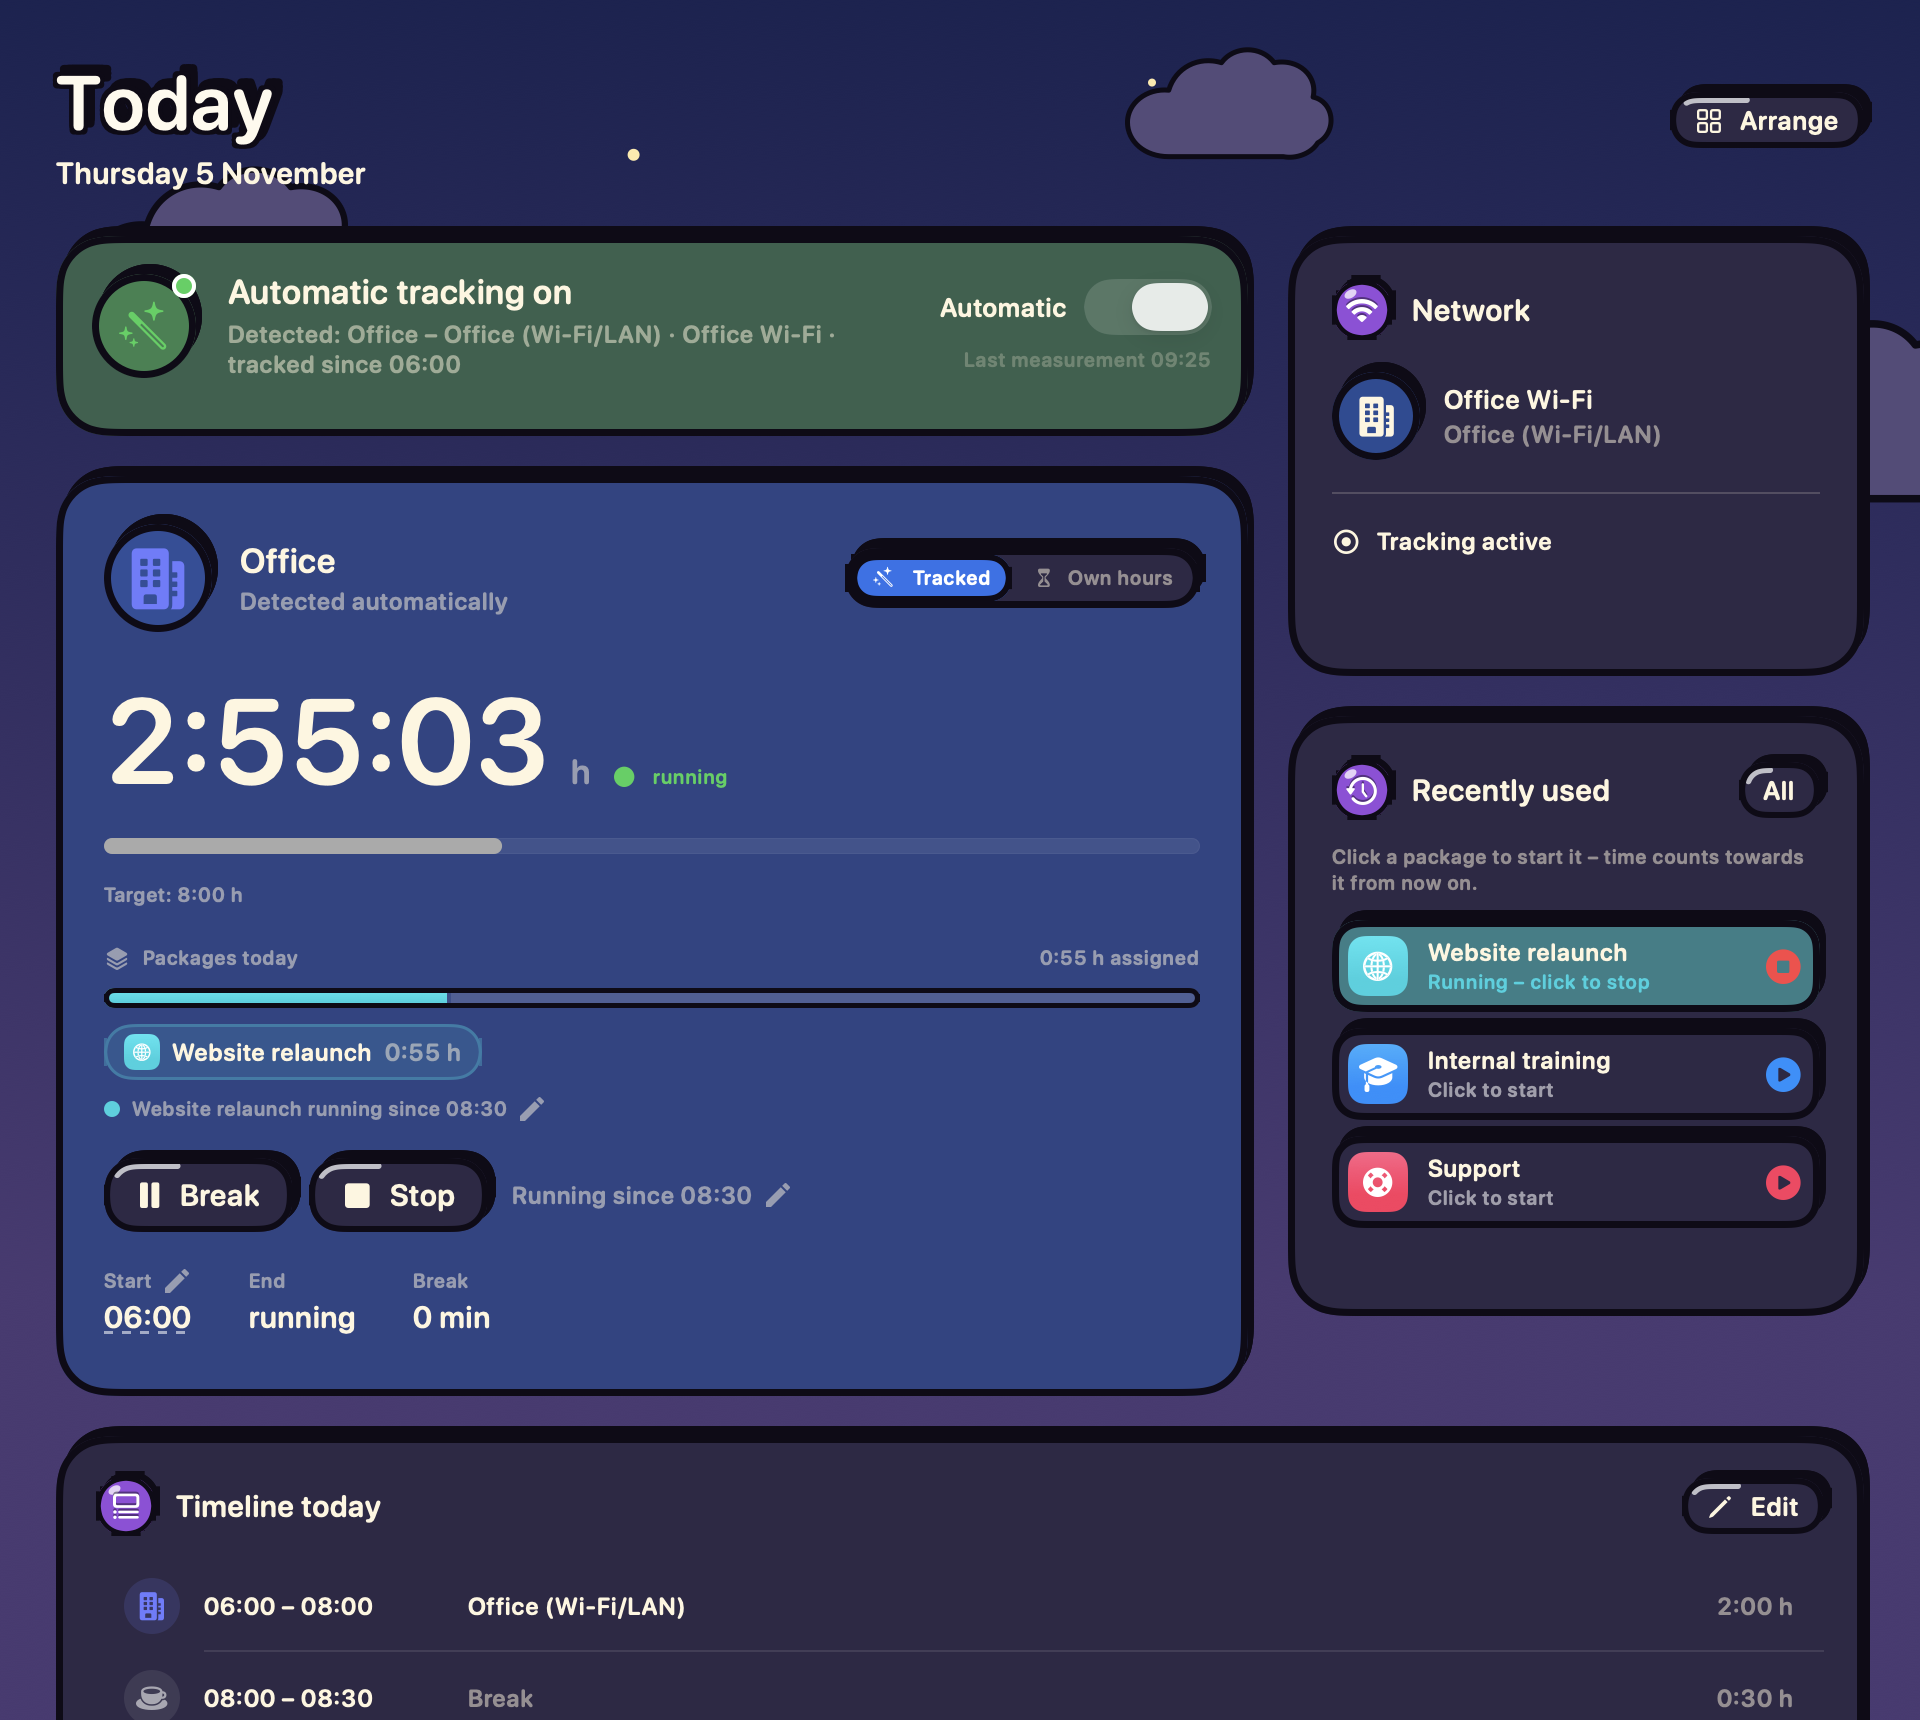
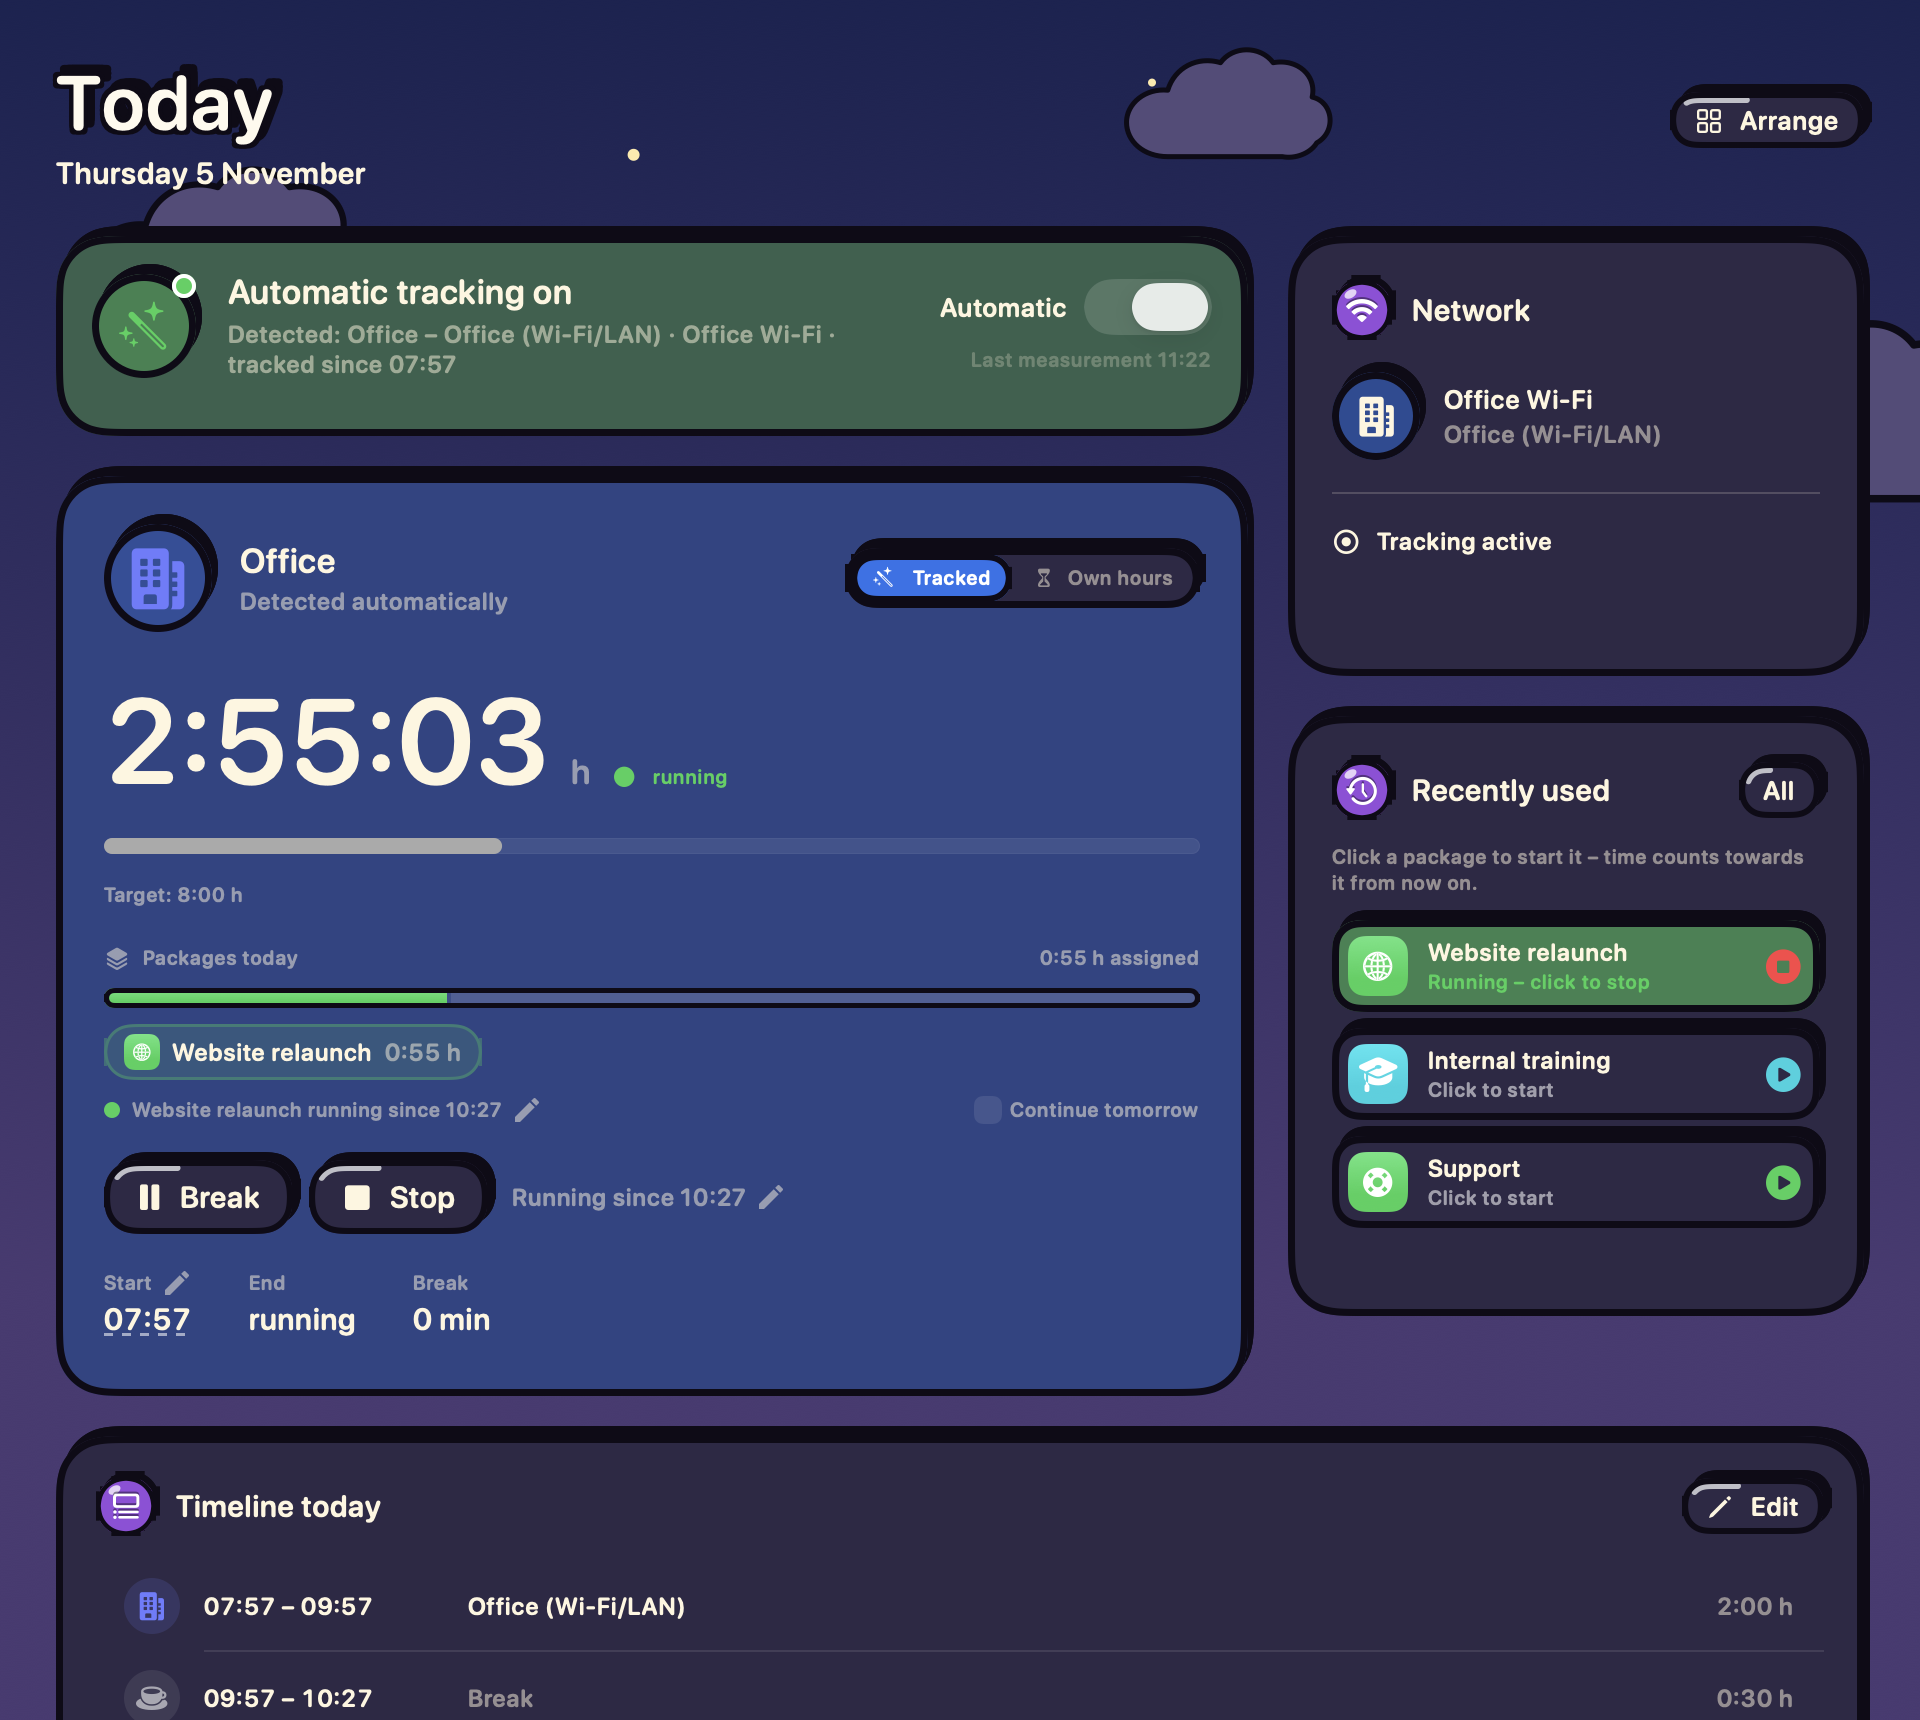
Docs: update description and screenshots

diff --git a/README.md b/README.md
@@ -16,11 +16,11 @@ Work-time tracker for macOS · Arbeitszeiterfassung für macOS
 - **Calendar** – every day at a glance: home office, office, business trip, vacation, sick days and public holidays. Click a day to edit it.
 - **Monthly report** – working time, target, overtime balance and vacation days, with CSV export.
 - **Office quota** – shows how many office days you still need this month.
-- **Packages** – assign your time to projects and booking numbers, with one click from the Today page. Azure DevOps tickets can be linked (read-only).
+- **Packages** – assign your time to projects and booking numbers, with one click from the Today page. A package still active at the end of the day can continue on the next working day. Azure DevOps tickets can be linked (read-only).
 - **Reminders** – a notification when your daily target is reached, and a prompt to end a break.
 - **Menu bar** – status and controls are always one click away.
 - **AI tools (MCP)** – optionally let an AI tool on your Mac, such as Claude or Cursor, operate the app: say "I started at 3 today", "my break was only 30 minutes" or "enter vacation from Monday to Friday", or ask how many office days you still need. Off by default.
-- **Five designs** – iOS 26, Material 3, Comic, Retro Future and ERP Classic, which uses only gray and blue and has no rounded corners.
+- **Five designs, plus your own** – iOS 26, Material 3, Comic, Retro Future and ERP Classic, which uses only gray and blue and has no rounded corners. An AI tool can also create custom designs with your colors, font and rounded corners; they then appear in the settings.
 - **Searchable settings** – type a word and only the matching settings remain, with the matches highlighted.
 - **Your data stays on your Mac** – there is no account and no cloud. Location Services are only needed because macOS reveals the Wi-Fi name that way; no location data is stored. If you connect an AI tool, what it reads may go to its provider, depending on the tool. It gets your work times and notes, but no Wi-Fi names, tokens or tickets.
 
@@ -158,11 +158,11 @@ The source code is not hosted here.
 - **Kalender** – jeder Tag auf einen Blick: Homeoffice, Büro, Dienstreise, Urlaub, Krankheit und Feiertage. Ein Klick auf den Tag öffnet die Bearbeitung.
 - **Monatsabrechnung** – Arbeitszeit, Soll, Überstundenkonto und Urlaubstage, mit CSV-Export.
 - **Büro-Quote** – zeigt, wie viele Bürotage dir in diesem Monat noch fehlen.
-- **Pakete** – ordne deine Zeit Projekten und Buchungsnummern zu, mit einem Klick direkt auf der Heute-Seite. Azure-DevOps-Tickets lassen sich verknüpfen (nur lesend).
+- **Pakete** – ordne deine Zeit Projekten und Buchungsnummern zu, mit einem Klick direkt auf der Heute-Seite. Ein Paket, das bei Feierabend noch aktiv ist, läuft auf Wunsch am nächsten Arbeitstag weiter. Azure-DevOps-Tickets lassen sich verknüpfen (nur lesend).
 - **Erinnerungen** – eine Mitteilung, wenn das Tagessoll geschafft ist, und eine Nachfrage, wenn die Pause zu Ende sein könnte.
 - **Menüleiste** – Status und Steuerung sind immer einen Klick entfernt.
 - **KI-Tools (MCP)** – auf Wunsch bedient ein KI-Tool auf deinem Mac, zum Beispiel Claude oder Cursor, die App: Sag „Ich habe heute um 3 angefangen“, „Meine Pause war nur 30 Minuten“ oder „Trag mir von Montag bis Freitag Urlaub ein“, oder frag, wie viele Bürotage dir noch fehlen. Standardmäßig aus.
-- **Fünf Designs** – iOS 26, Material 3, Comic, Retro-Zukunft und ERP-Klassik, das nur Grau und Blau kennt und keine Rundungen hat.
+- **Fünf Designs und eigene** – iOS 26, Material 3, Comic, Retro-Zukunft und ERP-Klassik, das nur Grau und Blau kennt und keine Rundungen hat. Ein KI-Tool kann außerdem eigene Designs mit deinen Farben, deiner Schrift und deinen Rundungen anlegen; sie stehen dann in den Einstellungen.
 - **Durchsuchbare Einstellungen** – ein Wort eintippen, und nur die passenden Einstellungen bleiben stehen, die Treffer sind markiert.
 - **Deine Daten bleiben auf deinem Mac** – kein Konto, keine Cloud. Die Ortungsdienste braucht die App nur, weil macOS den WLAN-Namen so herausgibt; Standortdaten werden nicht gespeichert. Wenn du ein KI-Tool verbindest, kann das, was es liest, je nach Tool an dessen Anbieter gehen. Es bekommt deine Arbeitszeiten und Notizen, aber keine WLAN-Namen, Tokens oder Tickets.
 
